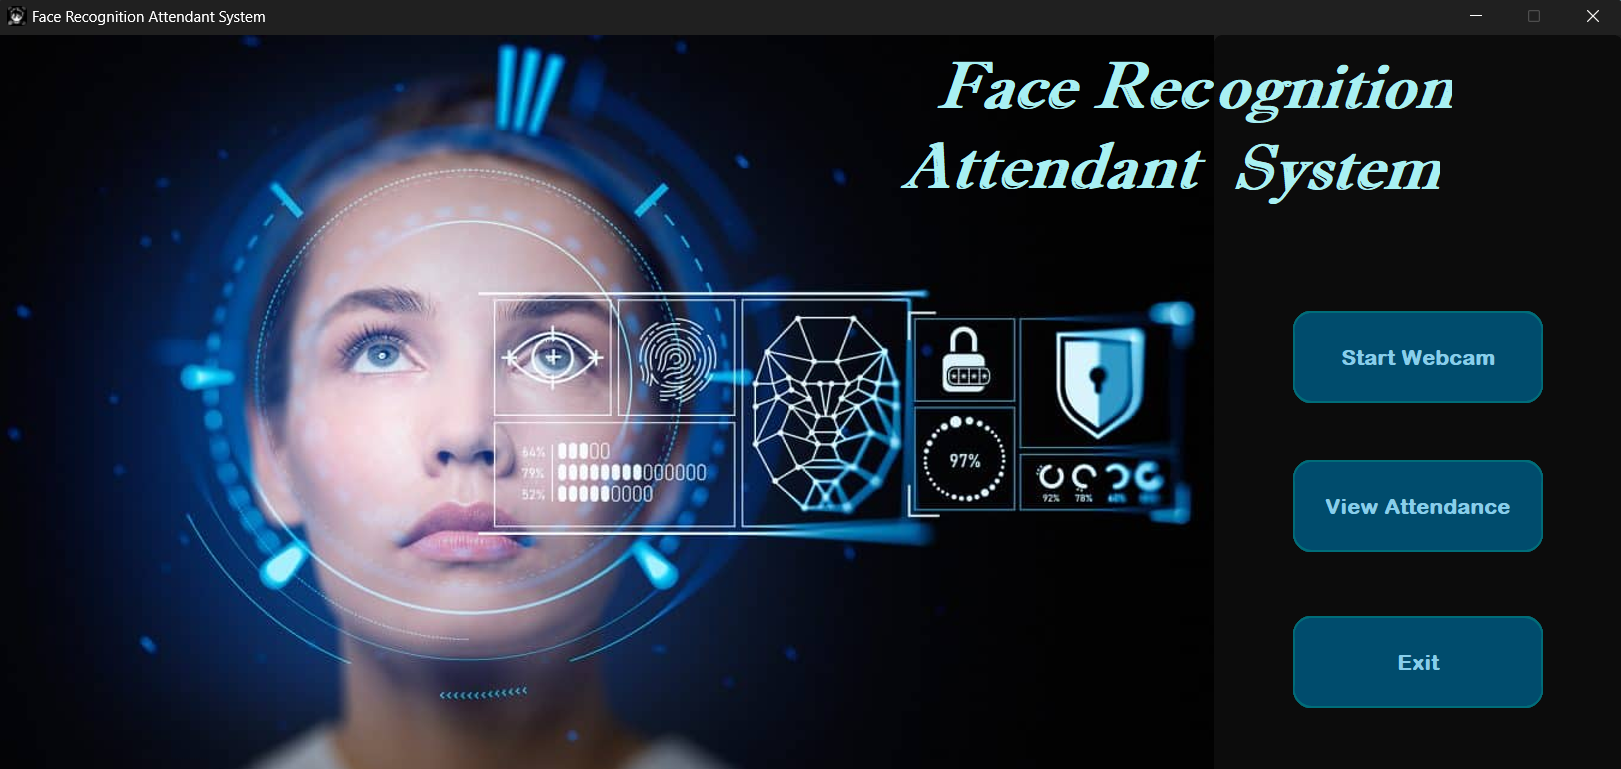
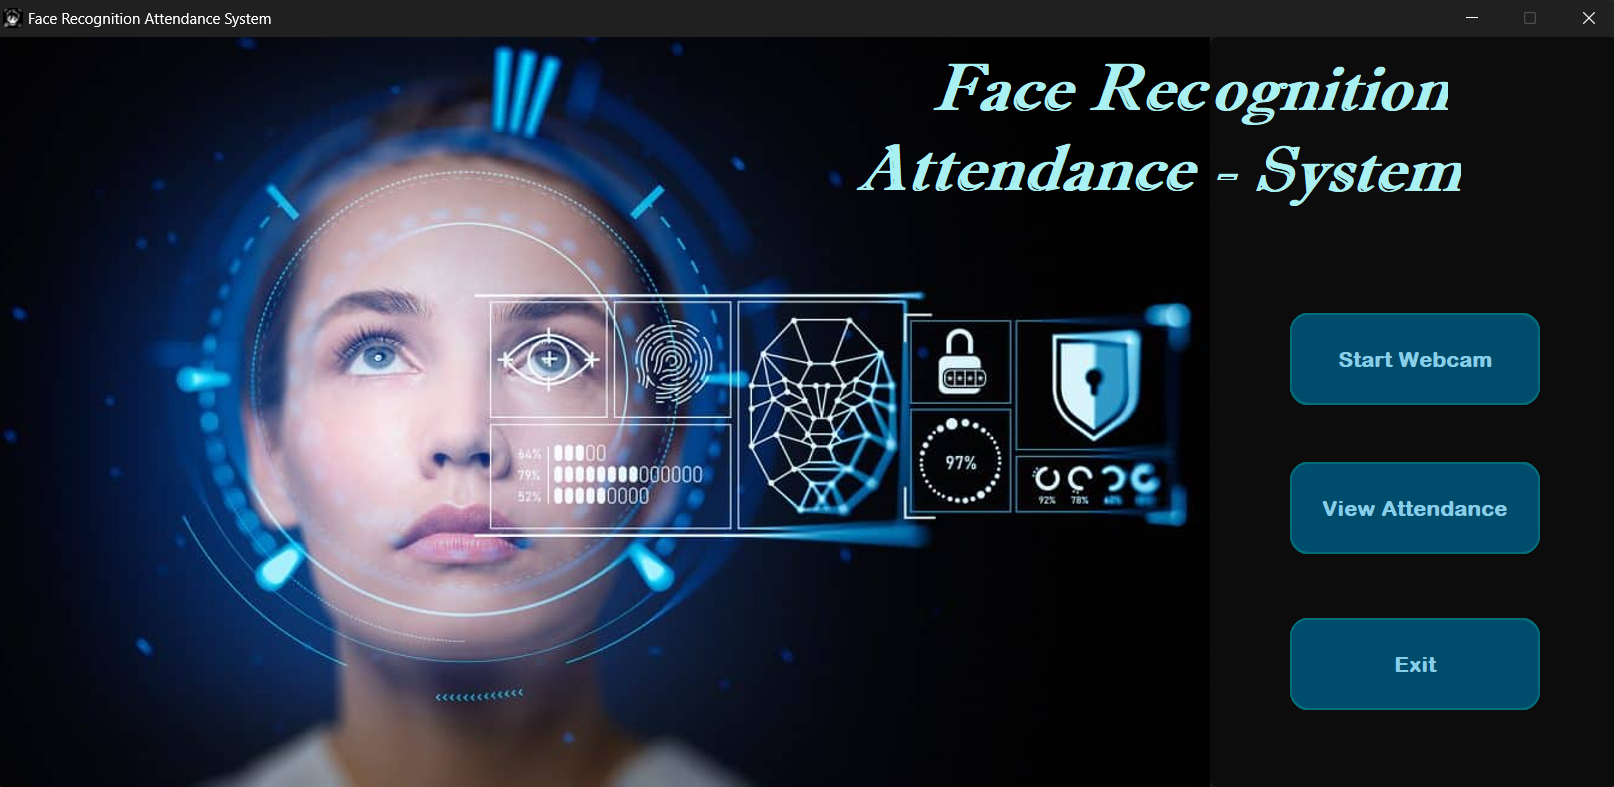
Final Stage

diff --git a/gui.py b/gui.py
@@ -1,6 +1,7 @@
 import customtkinter as ctk
 from PIL import Image, ImageTk
-# from process_webcam import processing_app
+from process_webcam import processing_app
+from attendance import get_all_attendance, get_specific_name_and_date, get_specific_name, get_specific_date 
 
 class FaceRecognitionApp:
     def __init__(self):
@@ -21,9 +22,10 @@ class FaceRecognitionApp:
         self.app.resizable(width=False, height=False)
         
         self.app.iconbitmap("images/logo_icon.ico")
-        self.app.title("Face Recognition Attendant System")
+        self.app.title("Face Recognition Attendance System")
         
         self.setup_ui()
+        
     def setup_ui(self):
 
         self.app.grid_rowconfigure(0, weight = 1)
@@ -50,8 +52,8 @@ class FaceRecognitionApp:
                            text = "Face Rec", 
                            font = ("Imprint MT Shadow", 50, "bold", "italic"), 
                            fill = "#A8F0F2")
-        canvas.create_text(1050, 130, 
-                           text = "Attendant", 
+        canvas.create_text(1030, 130, 
+                           text = "Attendance", 
                            font = ("Imprint MT Shadow", 50, "bold", "italic"), 
                            fill = "#A8F0F2")
         
@@ -103,7 +105,8 @@ class FaceRecognitionApp:
                                 border_width = 2, 
                                 border_color = "#006D79", 
                                 width = 200, 
-                                height = 75)
+                                height = 75,
+                                command = self.attendance_window)
         button2.grid(row = 1, column = 0, rowspan = 3, columnspan = 2, pady = 110, sticky = "ne")  
         
         button3 = ctk.CTkButton(right_frame, 
@@ -136,6 +139,168 @@ class FaceRecognitionApp:
         finally:
             self.app.deiconify()
             print("Webcam process finished.")
+            
+    def set_icon(self, customer_window):
+        try:
+            customer_window.iconbitmap("images/logo_icon.ico")
+        except Exception as e:
+            print(f"Error setting icon: {e}")
+            
+    def attendance_window(self):
+        
+        self.app.withdraw() 
+
+        # Create a new CTkToplevel window
+        customer_window = ctk.CTkToplevel()
+
+        width, height = 720, 500
+        screen_width = customer_window.winfo_screenwidth()
+        screen_height = customer_window.winfo_screenheight()
+        x = (screen_width // 2) - (width // 2)
+        y = (screen_height // 2) - (height // 2)
+        
+        # Delay setting the icon for 1000 ms (1 second)
+        customer_window.after(1000, self.set_icon, customer_window)  # Delay the icon set by 1 second
+        
+        customer_window.geometry(f'{width}x{height}+{x}+{y}')
+        customer_window.resizable(width=False, height=False)
+        customer_window.title("Face Recognition Attedance System")
+
+        # Title bar
+        title_frame = ctk.CTkFrame(customer_window, height = 60, corner_radius = 0)
+        title_frame.pack(fill = "x", side = "top")
+        ctk.CTkLabel(
+            title_frame,
+            text = "Attendance Management System",
+            font = ("Imprint MT Shadow", 30, "bold", "italic"),
+            text_color = "white"
+        ).pack(pady = 10)
+
+        # Search bar frame
+        search_frame = ctk.CTkFrame(customer_window, corner_radius = 10, fg_color = "#2c2c2c")
+        search_frame.pack(pady = 20, padx = 20, fill = "x")
+
+        search_entry_name = ctk.CTkEntry(
+            search_frame,
+            font = ("Times New Roman", 16),
+            placeholder_text = "Search by Name",
+            width = 250,
+            corner_radius = 10
+        )
+        search_entry_name.pack(side = "left", padx = 10, pady = 10)
+
+        search_entry_date = ctk.CTkEntry(
+            search_frame,
+            font = ("Times New Roman", 16),
+            placeholder_text = "Search by Date (YYYY-MM-DD)",
+            width = 250,
+            corner_radius = 10
+        )
+        search_entry_date.pack(side = "left", padx = 10, pady = 10)
+
+        def search_attendance():
+            # Get the search parameters
+            name = search_entry_name.get()
+            date = search_entry_date.get()
+
+            if not name and not date:
+                attendance_data = get_all_attendance()  # Default to all data if no filters are set
+            elif name and not date:
+                attendance_data = get_specific_name(name)  # Filter by name only
+            elif not name and date:
+                attendance_data = get_specific_date(date)  # Filter by date only
+            else:
+                attendance_data = get_specific_name_and_date(name, date)  # Filter by both name and date
+
+            # Update the scrollable frame with the filtered attendance data
+            update_scrollable_frame(attendance_data)
+    
+        # Search Button with Icon (Optional)
+        search_icon = ctk.CTkImage(
+            Image.open("images/search_icon.png"), size = (20, 20)
+        )
+
+        search_button = ctk.CTkButton(
+            search_frame,
+            text = "Search",
+            font = ("Arial", 14, "bold"),
+            image = search_icon,
+            width = 100,
+            corner_radius = 10,
+            fg_color = "blue",
+            hover_color = "lightblue",
+            command = search_attendance # Bind the search function to the button
+        )
+        search_button.pack(pady = 10, padx = 15, anchor = "e")
+
+        # Scrollable frame for attendance data
+        scrollable_frame = ctk.CTkScrollableFrame(
+            customer_window, width = 950, height = 250, corner_radius = 10, fg_color = "#1e1e1e"
+        )
+        scrollable_frame.pack(pady = 10, padx = 20, fill = "both", expand = True)
+        
+        # Configure grid columns for spacing
+        scrollable_frame.grid_columnconfigure(0, minsize = 80)  # Column for "No"
+        scrollable_frame.grid_columnconfigure(1, minsize = 200)  # Column for "Name"
+        scrollable_frame.grid_columnconfigure(2, minsize = 100)  # Column for "Gender"
+        scrollable_frame.grid_columnconfigure(3, minsize = 150)  # Column for "Date"
+        scrollable_frame.grid_columnconfigure(4, minsize = 100)  # Column for "Time"
+        scrollable_frame.grid_columnconfigure(5, minsize = 150)  # Column for "Status"
+
+        def update_scrollable_frame(attendance_data):
+            # Clear existing rows
+            for widget in scrollable_frame.winfo_children():
+                widget.grid_forget()
+            
+            # Add headers
+            headers = ["No", "Name", "Gender", "Date", "Time", "Attendant Status"]
+            for col_index, header in enumerate(headers):
+                ctk.CTkLabel(
+                    scrollable_frame,
+                    text = header,
+                    font = ("Arial", 14, "bold"),
+                    fg_color = "#4f4f4f",
+                    text_color = "white",
+                    corner_radius = 5
+                ).grid(row = 0, column = col_index, padx = 5, pady = 5, sticky = "ew")
+
+            # Add data rows with alternating row colors
+            for row_index, record in enumerate(attendance_data, start = 1):
+                row_color = "#2c2c2c" if row_index % 2 == 0 else "#1e1e1e"
+                for col_index, field in enumerate(record):
+                    ctk.CTkLabel(
+                        scrollable_frame,
+                        text = str(field),
+                        font = ("Arial", 12),
+                        fg_color = row_color,
+                        text_color = "white",
+                        corner_radius = 5
+                    ).grid(row = row_index, column = col_index, padx = 5, pady = 5, sticky = "ew")
+                
+        # Initially populate with all attendance data
+        update_scrollable_frame(get_all_attendance())
+        
+        # Add a back button
+        ctk.CTkButton(
+            customer_window,
+            text = "Back",
+            font = ("Arial", 16, "bold"),
+            corner_radius = 20,
+            width = 180,
+            height = 60,
+            fg_color = "#4C9EFF",
+            hover_color = "#0066CC",
+            text_color = "white", 
+            border_width = 2,
+            border_color = "#003366", 
+            command = lambda: self.close_toplevel(customer_window)  
+        ).pack(pady = 10, padx = 25, anchor = "e")
+        
+
+        
+    def close_toplevel(self, customer_window):
+        customer_window.destroy()
+        self.app.deiconify()
 
 if __name__ == "__main__":
     face_recognition_app = FaceRecognitionApp()

diff --git a/attendance.py b/attendance.py
@@ -45,8 +45,6 @@ def get_all_attendance():
     cursor = conn.execute(query)
     records = cursor.fetchall()
     
-    conn.close()
-    
     return records
 
 def get_specific_name(name):
@@ -55,8 +53,6 @@ def get_specific_name(name):
     try:
         cursor = conn.execute(query, (name,))
         records = cursor.fetchall()
-        
-        conn.close()
         
         return records
     except Exception as e:
@@ -69,11 +65,20 @@ def get_specific_date(date):
         cursor = conn.execute(query, (date,))
         records = cursor.fetchall()
         
-        conn.close()
-        
         return records
     except Exception as e:
         return f"Error fetching data for {date}: {e}"
+    
+def get_specific_name_and_date(name, date):
+    query = "SELECT * FROM attendance WHERE student_name = ? AND date = ?"
+    
+    try:
+        cursor = conn.execute(query, (name, date))
+        records = cursor.fetchall()
+        
+        return records
+    except Exception as e:
+        return f"Error fetching data for {name} on {date}: {e}"
 
 def check_attendance_exists(student_name, date):
     query = "SELECT * FROM attendance WHERE student_name = ? AND date = ?"
@@ -83,16 +88,16 @@ def check_attendance_exists(student_name, date):
     if result:
         return result[5]  
     
-    conn.close()
     return None  
-
 
 
 def check_and_mark_attendance(student_name, date):
     
     student_inf = {"Keanghok": "Male",
                    "Sna": "Male",
-                   "Dara": "Male"
+                   "Dara": "Male",
+                   "ROSÉ": "Female",
+                   "Bruno_Mars": "Male"
                    }
     
     existing_status = check_attendance_exists(student_name, date)
@@ -121,15 +126,16 @@ def check_and_mark_attendance(student_name, date):
 if __name__ == '__main__':
     initialize()
 
-    student_names = ['Keanghok', 'Dara', 'Sna']
-    current_date = datetime.now().strftime("%Y-%m-%d")
-
-    for student_name in student_names:
-        status = check_and_mark_attendance(student_name, current_date)
-        print(f"Student: {student_name}, Attendance Status: {status}")
+    # student_names = ['Keanghok', 'Dara', 'Sna']
+    # current_date = datetime.now().strftime("%Y-%m-%d")
+    
+    # for student_name in student_names:
+    #     status = check_and_mark_attendance(student_name, current_date)
+    #     print(f"Student: {student_name}, Attendance Status: {status}")
 
     attendance_records = get_all_attendance()
-    for record in attendance_records:
-        print(record)
+    print(attendance_records)
+    # for record in attendance_records:
+    #     print(record)
         
-    print(get_specific_name("Sna"))
+    # print(get_specific_name("Sna"))

diff --git a/process_webcam.py b/process_webcam.py
@@ -34,7 +34,7 @@ except FileNotFoundError:
     exit(1)
 
 # Threshold for "unknown" classification
-threshold = 0.7
+threshold = 0.8
 
 def processing_app():
     
@@ -53,7 +53,7 @@ def processing_app():
         rgb_img = cv.cvtColor(frame, cv.COLOR_BGR2RGB)
         gray_img = cv.cvtColor(frame, cv.COLOR_BGR2GRAY)
         
-        faces = haarcascade.detectMultiScale(gray_img, 1.3, 5)  # Neighbors = 5 (increase will lead to less false positive)
+        faces = haarcascade.detectMultiScale(gray_img, 1.3, 6)  # Neighbors = 5 (increase will lead to less false positive)
         
         for x, y, w, h in faces:
             face_img = rgb_img[y:y+h, x:x+w]
